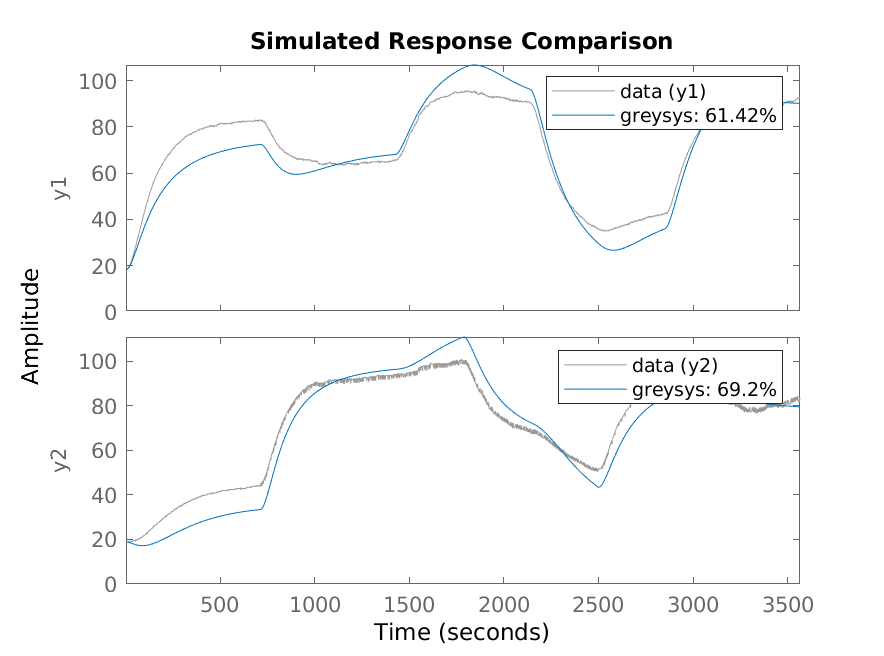
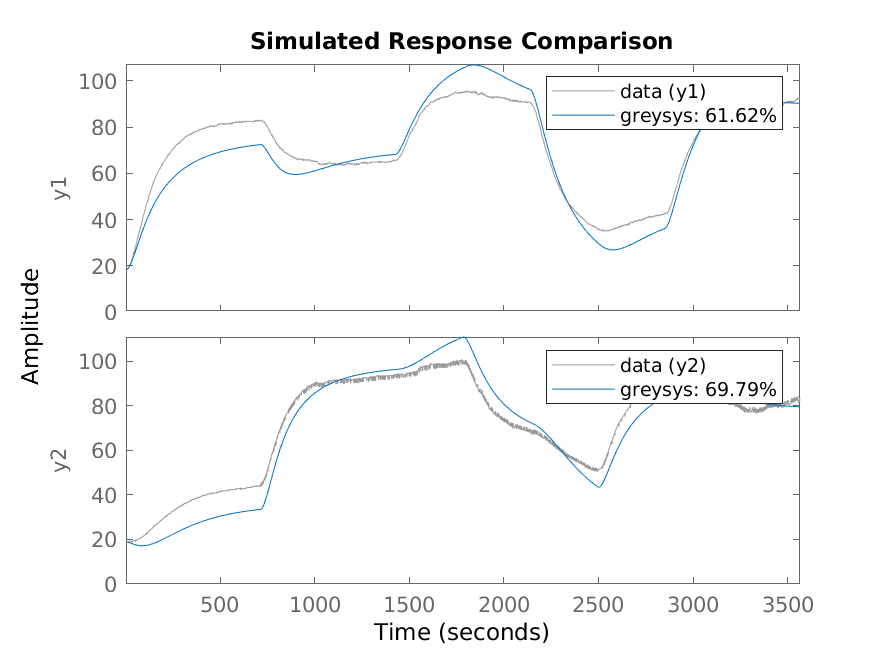
most of the plots

diff --git a/tclab/MATLAB/state space/GreyBoxEstimation.m b/tclab/MATLAB/state space/GreyBoxEstimation.m
@@ -18,13 +18,15 @@ Tnom = mean([T1meas(1),T2meas(1)]) + 273.15;
 
 % Constuct data object for sys id
 data = iddata([T1meas T2meas],[Q1 Q2],Ts);
-plot(data)
 
-% preprocess output data to remove hi freq noise content and bias
+%% Preprocess output data to remove hi freq noise content and bias
 datap=data;
-filter=[0,0.5]; % filter band
-datap.OutputData = idfilt(datap.OutputData(,filter);
-%datap.OutputData = detrend(datap.OutputData,0);
+filter=[0 0.4];
+% datap.OutputData = detrend(datap.OutputData,0);
+% datap.OutputData = idfilt(datap.OutputData,2,0.1,'low');
+datap.OutputData = idfilt(datap.OutputData,filter,'FilterOrder',2);
+
+%% Initialize greybox model
 
 odefun = 'linearTclabModel';
 fcn_type =  'c';
@@ -33,7 +35,8 @@ parameters = {'heatCoef1',U;'heatCoef2',Us;'alpha1',alpha1;....
 init_sys = idgrey(odefun,parameters,fcn_type,'InputName',{'Heater 1','Heater 2'},...
            'OutputName',{'Temp 1','Temp 2'});
 
-% Parameter bounds
+%% Define parameter bounds
+
 % U
 init_sys.Structure.Parameters(1).Minimum = 1;
 init_sys.Structure.Parameters(1).Maximum = 20;
@@ -50,11 +53,14 @@ init_sys.Structure.Parameters(4).Maximum = 0.03;
 init_sys.Structure.Parameters(5).Minimum = 3;
 init_sys.Structure.Parameters(5).Maximum = 60;
 
+%% Estimate Greybox model
+
 opt = greyestOptions('SearchMethod','fmincon','InitialState','backcast');
 greysys = greyest(datap,init_sys,opt);
 
+%% Plot results and save images
 
-% Plot results and save images
+
 figure
 opt = compareOptions('InitialCondition',T0);
 legend('Location','SE')
@@ -82,7 +88,7 @@ saveas(gca,'../plots/bodemag_greybox.png')
 % plot(t,ygrey)
 
 
-%% Compare greybox model to optimized state space modelpp
+%% Compare greybox model to optimized state space model
 
 % Get state space system for linearized 2nd order physics model
 linsys = stateSpaceModel(Tnom);
@@ -91,17 +97,21 @@ linsys = stateSpaceModel(Tnom);
 T_lin  = lsim(linsys,[Q1 Q2],t,T0);
 T_grey = lsim(greysys,[Q1 Q2],t,T0);
 
+measdata=datap.OutputData;
+%measdata=[T1meas T2meas];
+
+
 figure
 subplot(2,1,1)
-plot(t,T_lin(:,1),t,T_grey(:,1)); hold on;
+plot(t,measdata(:,1),t,T_lin(:,1),t,T_grey(:,1)); hold on;
 ylabel('Temperature (degC)')
-legend('T1 optimized state space model','T1 greybox model','Location','SE')
+legend('T1 Measured','T1 optimized state space model','T1 greybox model','Location','SE')
 subplot(2,1,2)
-plot(t,T_lin(:,2),t,T_grey(:,2))
+plot(t,measdata(:,2),t,T_lin(:,2),t,T_grey(:,2))
 ylabel('Temperature (degC)')
-legend('T2 optimized state space model','T2 greybox model','Location','SE')
+legend('T2 Measured','T2 optimized state space model','T2 greybox model','Location','SE')
 xlabel('Time (min)')
 sgt = sgtitle('Comparison of optimized state space model and greybox model');
-sgt.FontSize = 20;
-saveas(gca,'../plots/bodemag_greybox.png');
+sgt.FontSize = 10;
+saveas(gca,'../plots/comparison_greybox_statespace.png');
 

diff --git a/tclab/MATLAB/Subspace Identification/SudId_Matlab.m b/tclab/MATLAB/Subspace Identification/SudId_Matlab.m
@@ -3,7 +3,7 @@ clear all; close all; clc;
 
 % load test data
 load ../results/luca/semi_random_test_60min_luca.mat
-
+load ../model_parameters/model_parameters_luca.mat
 
 % Extract data columns
 t = data(:,1);
@@ -11,54 +11,51 @@ Q1 = data(:,2);
 Q2 = data(:,3);
 T1meas = data(:,4);
 T2meas = data(:,5);
-T0      = ([T1meas(1) T2meas(1) T1meas(1) T2meas(1)]');
+T0 = ([T1meas(1) T2meas(1) T1meas(1) T2meas(1)]');
+Ts = mean(diff(t));
 
 % Nominal temperature in K around which to linearize
 Tnom = mean([T1meas(1),T2meas(1)]) + 273.15;
 
 % Constuct data object for sys id
-data = iddata([T1meas T2meas],[Q1 Q2],1);
-% Extract and plot spectral density
-% g = spafdr(data); 
-% figure
-% bode(g)
+data = iddata([T1meas T2meas],[Q1 Q2],Ts);
 
-% filter output data to remove hi freq noise content
-dataf = data;
+%% Preprocess output data to remove hi freq noise content and bias
+
+datap=data;
 filter=[0,0.5]; % filter band
-dataf.OutputData = idfilt(data.OutputData,filter);
+%datap.OutputData = detrend(datap.OutputData,0);
+datap.OutputData = idfilt(datap.OutputData,filter);
+plot(datap.OutputData)
 
 % detrend data
-[datad,T] = detrend(dataf,0);
+% [datad,T] = detrend(data,0);
 
 % identify system and print report
-sys = ssest(datad,4);
-sys.Report
+opt = ssestOptions('InitializeMethod','n4sid','InitialState',T0);
+blacksys = ssest(datap,4);
+blacksys.Report
+
+[A,B,C,D,K] = idssdata(blacksys)
 
 % Simulate the model output with zero initial states
-simOpt = simOptions('InitialCondition',T0);
-y_sim = sim(sys,datad(:,[],:),simOpt);
-y_tot = retrend(y_sim,T);
-
+% simOpt = simOptions('InitialCondition',T0);
+% y_sim = lsim(sys,datap.InputData,simOpt);
 figure
-compare(data,y_tot)
+opt = compareOptions('InitialCondition',T0);
+compare(datap,blacksys,opt);
+legend('Location','SE')
+saveas(gca,'../plots/comparison_prepross_blackbox.png')
 
 % Get the raw parameter covariance for the model.
 % cov_data = getcov(sys);
 
-[A,B,C,D,K] = idssdata(sys);
 figure
-iopzmap(sys)
-
-%%
-
-% nk = delayest(dataf)
+iopzmap(blacksys)
+saveas(gca,'../plots/polezero_blackbox.png')
 
 
-
-
-
-% opt = n4sidOptions('N4Weight','MOESP','Display','on');
-% sys = n4sid(data,2:8,opt);
-% sys2 = ssest(data)
-
+opt=residOptions('MaxLag',30);
+figure
+resid(datap,blacksys,opt)
+saveas(gca,'../plots/residuals_blackbox.png')
